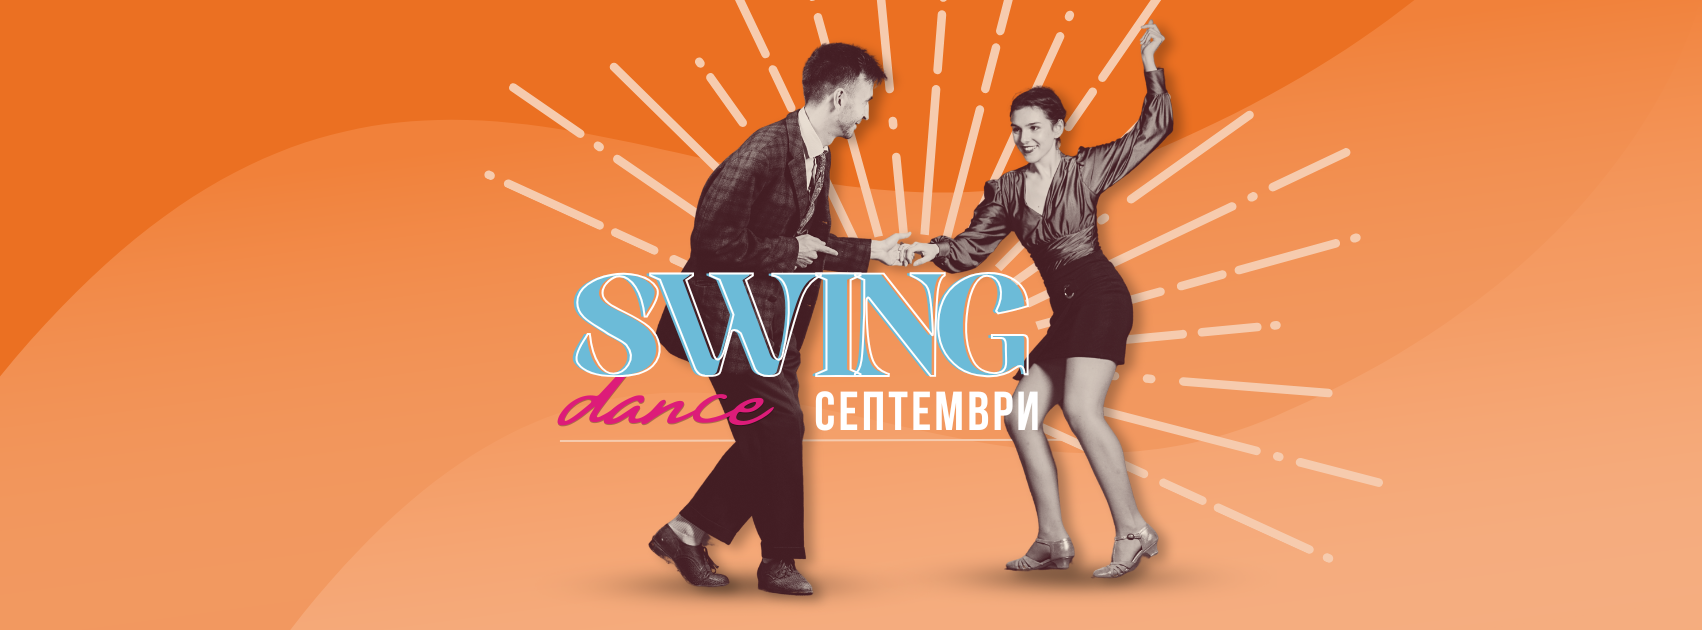
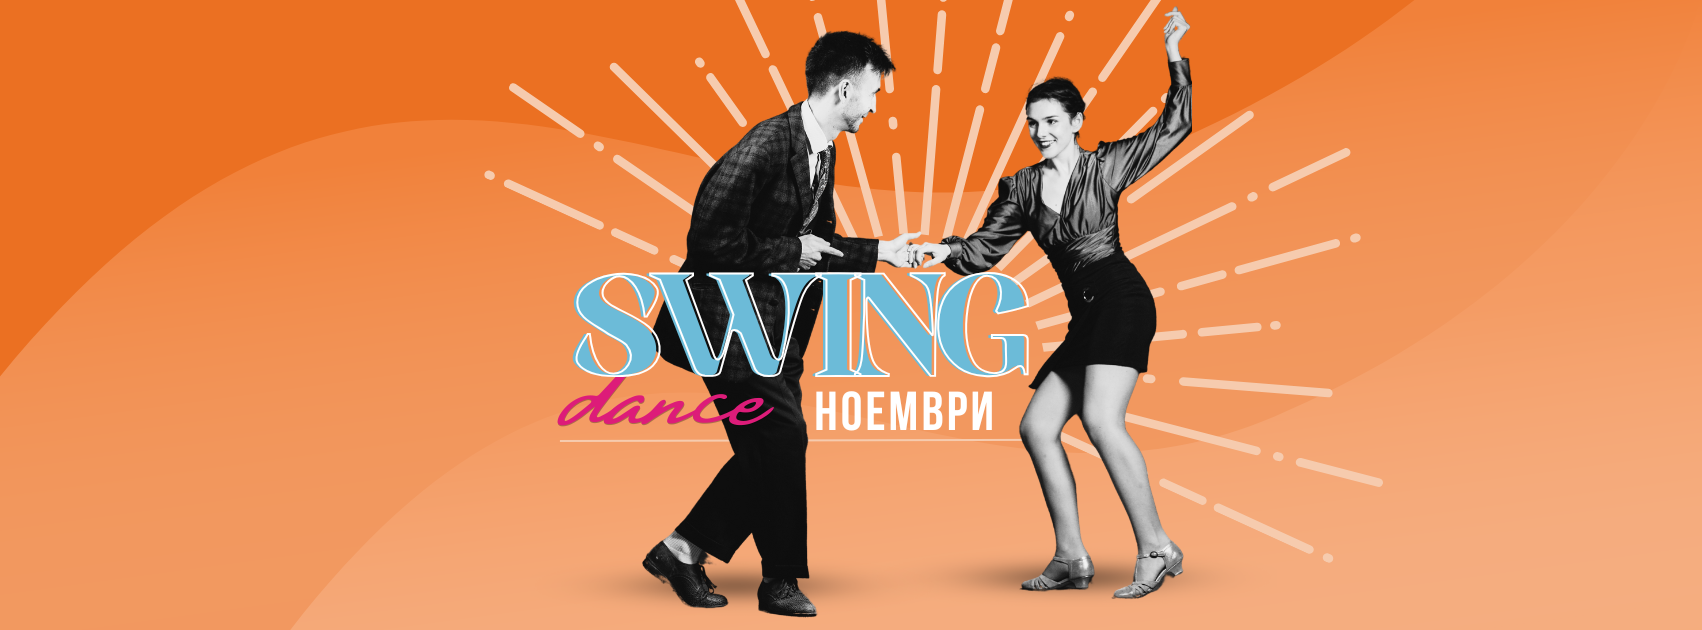
Update Swing Basics course

Changed region(s): [[0.3737, 0.0, 0.7162, 0.9952]]

diff --git a/index.html b/index.html
@@ -105,7 +105,7 @@
                             Location: <a href="https://maps.app.goo.gl/YK99FTGpWaVd6m3KA" target="_blank">Serdika Str 25</a>
                             <br />
                             <br />
-                            Next group starts on <b>15th September 2025</b>.
+                            Next group starts on <b>24th November 2025</b>.
 
                         </p>
                         <a class="btn btn-register btn-workshop" href="http://swingsociety.bg/sign-up" target="_blank">
